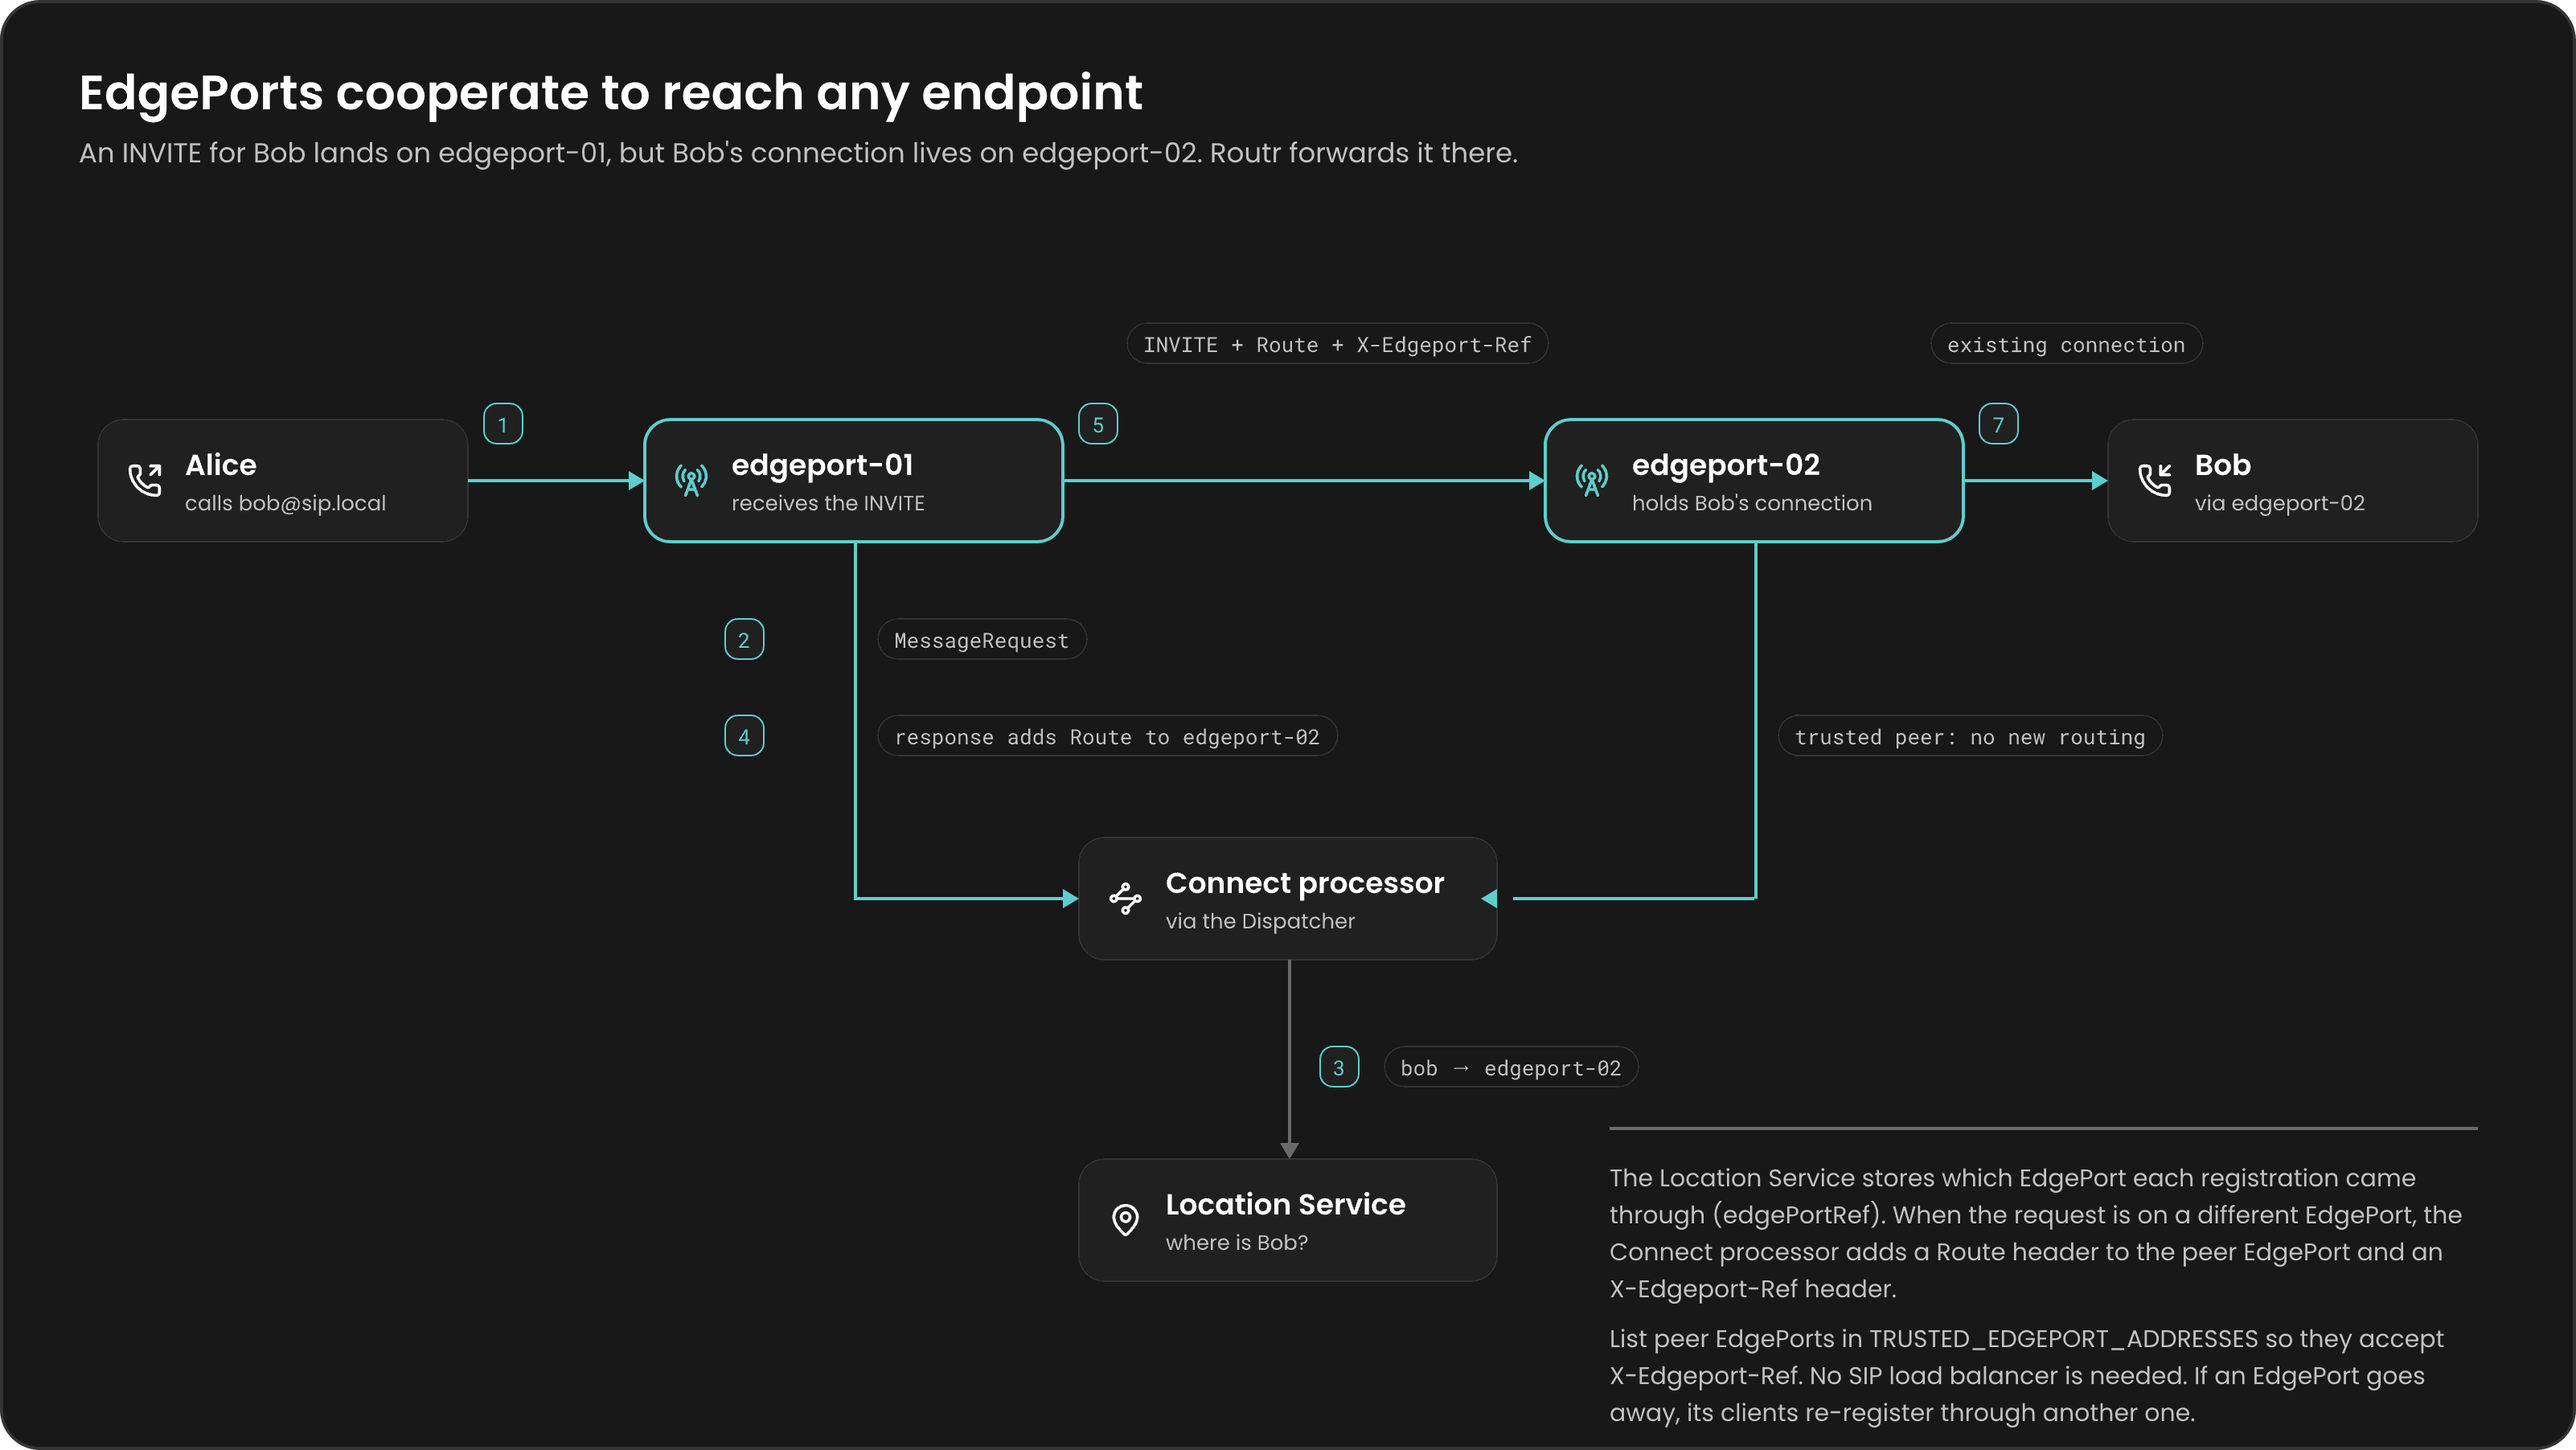
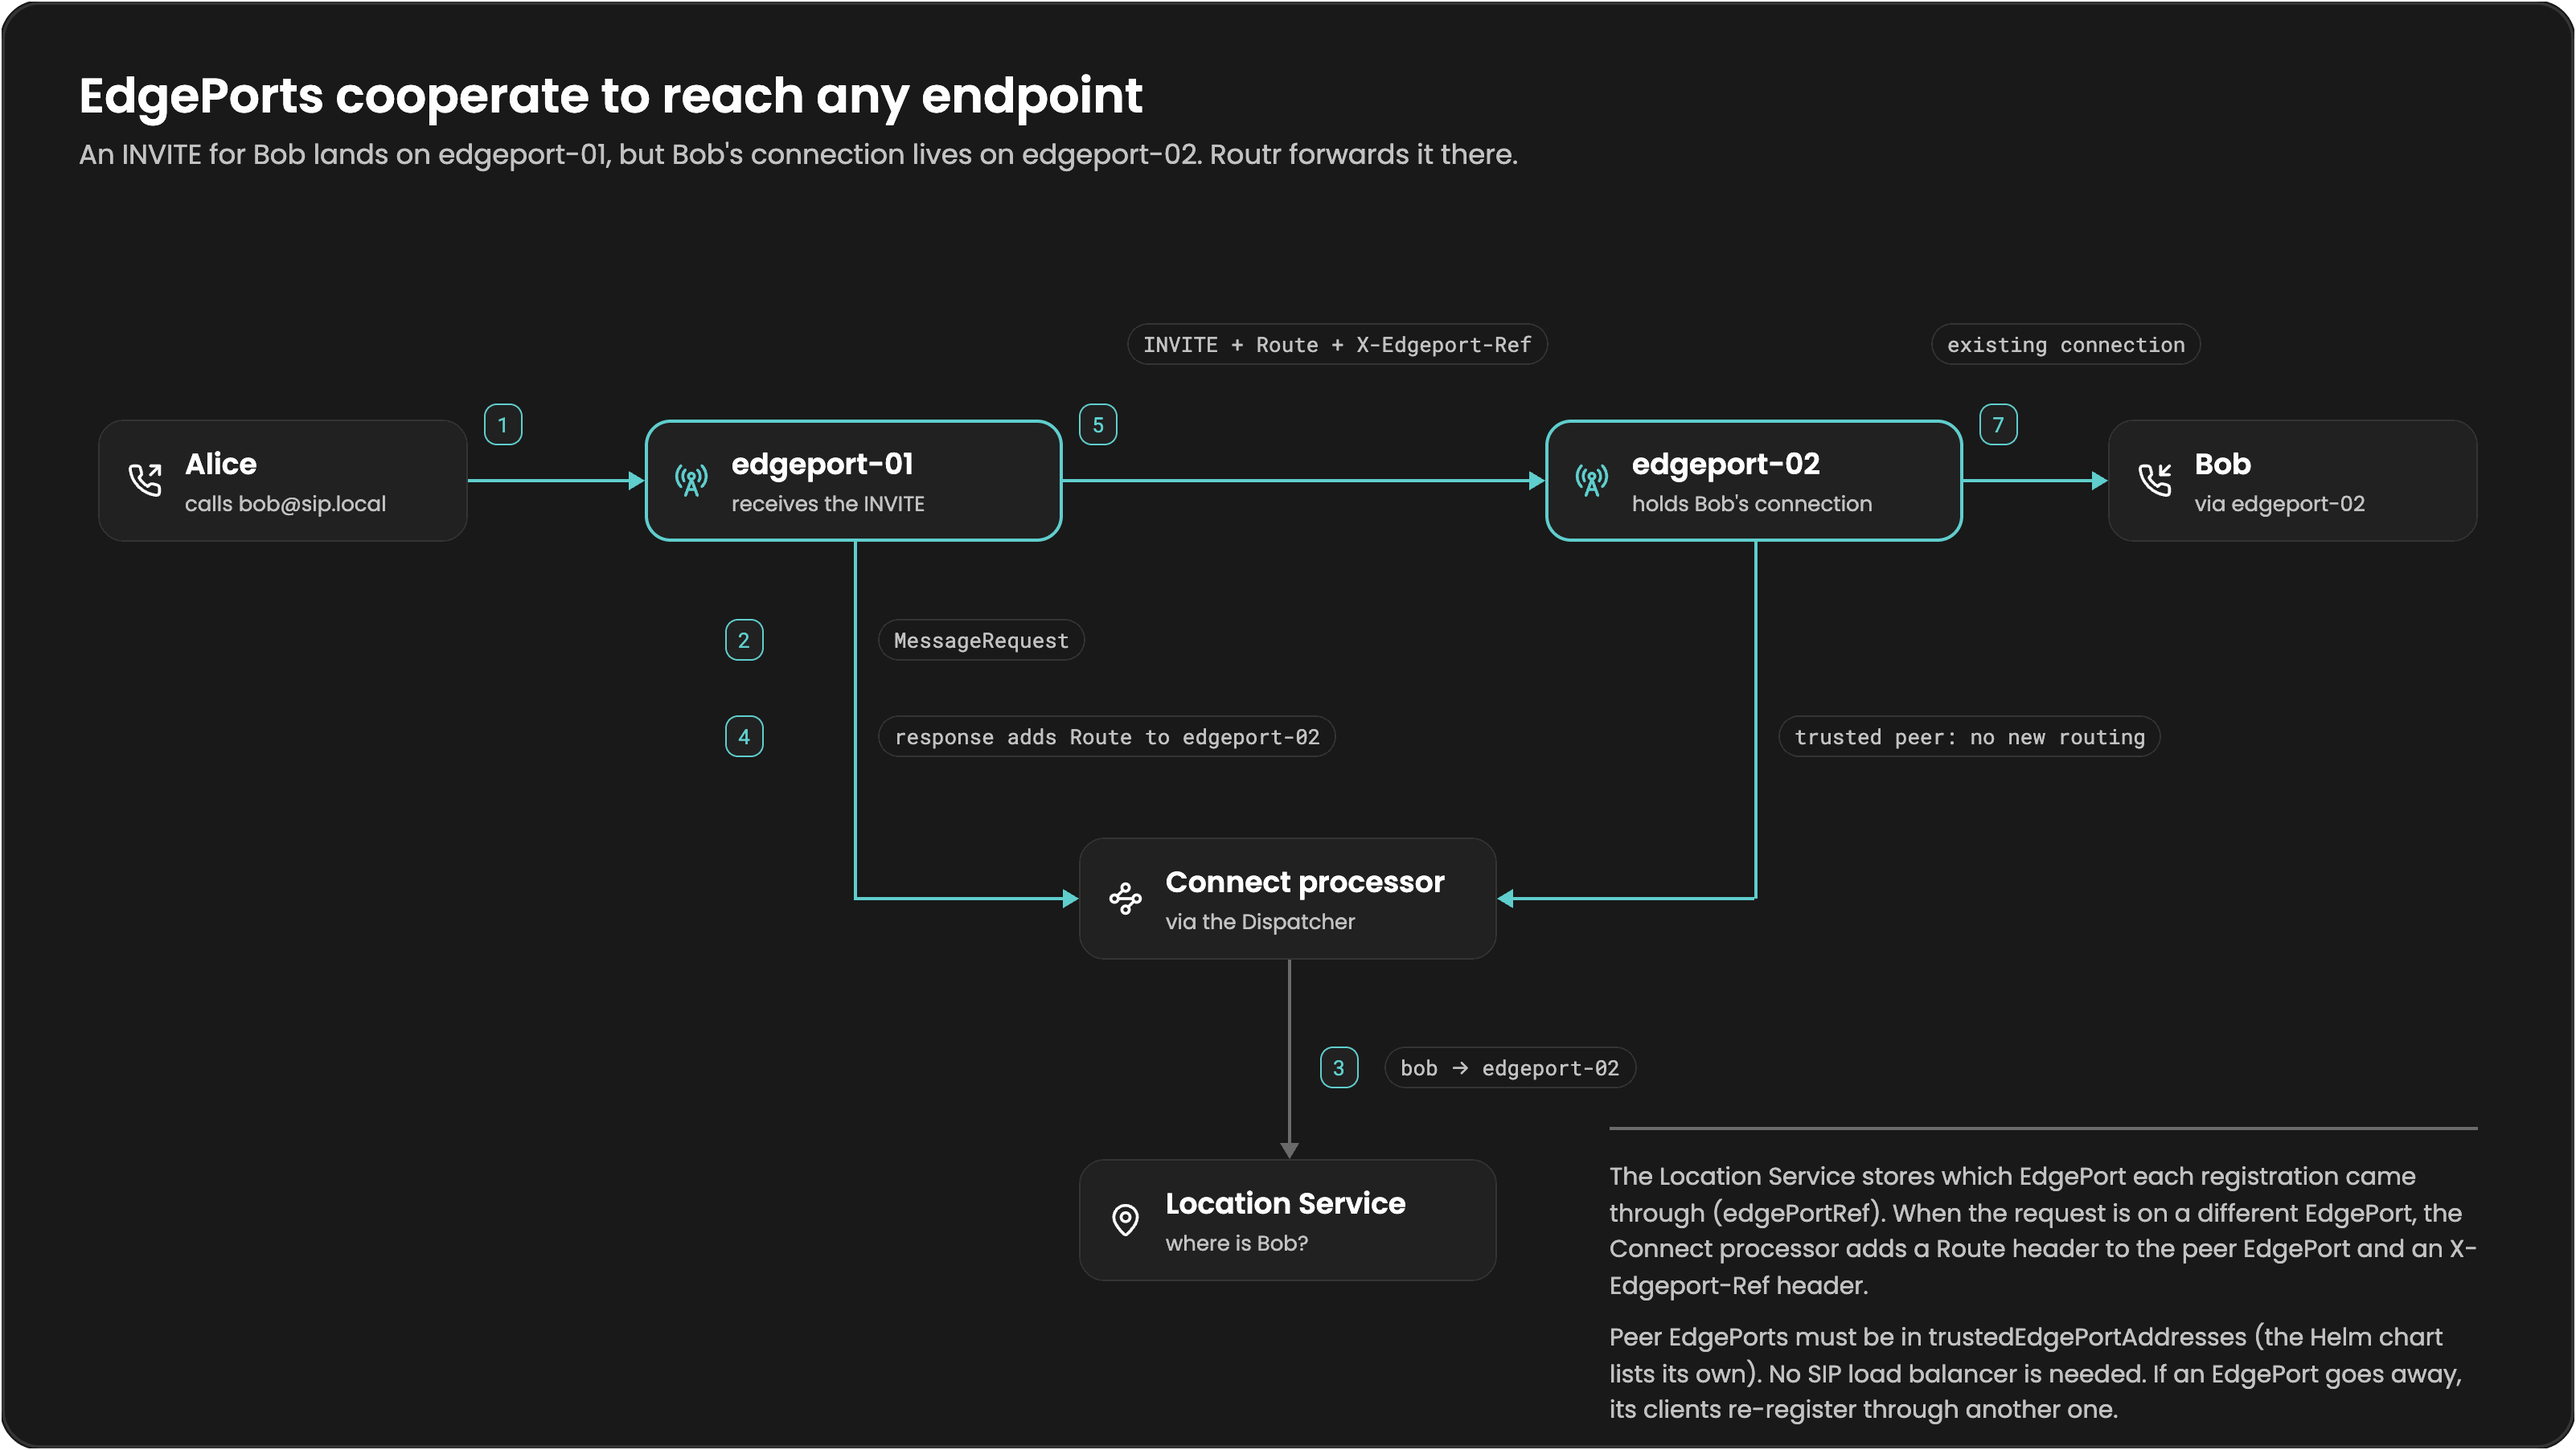
docs(concepts): name trustedEdgePortAddresses in the EdgePort cooperation diagram
The diagram's footnote still told readers to set TRUSTED_EDGEPORT_ADDRESSES,
which Routr 3 ignores. It now names spec.trustedEdgePortAddresses and says the
Helm chart lists its own EdgePorts. Both PNGs are re-exported from docs.pen.

Refs #651

diff --git a/docs-site/images/edgeport-cooperation/cooperation.md b/docs-site/images/edgeport-cooperation/cooperation.md
@@ -13,7 +13,7 @@
 
 An INVITE that lands on edgeport-01 for an endpoint connected to edgeport-02 is forwarded there with a Route header and X-Edgeport-Ref.
 
-Footnote text: "List peer EdgePorts in trustedEdgePortAddresses so they accept X-Edgeport-Ref; the Helm chart lists its own EdgePorts. No SIP load balancer is needed. If an EdgePort goes away, its clients re-register through another one."
+Footnote text: "Peer EdgePorts must be in trustedEdgePortAddresses (the Helm chart lists its own). No SIP load balancer is needed. If an EdgePort goes away, its clients re-register through another one."
 
 ## Sources
 
